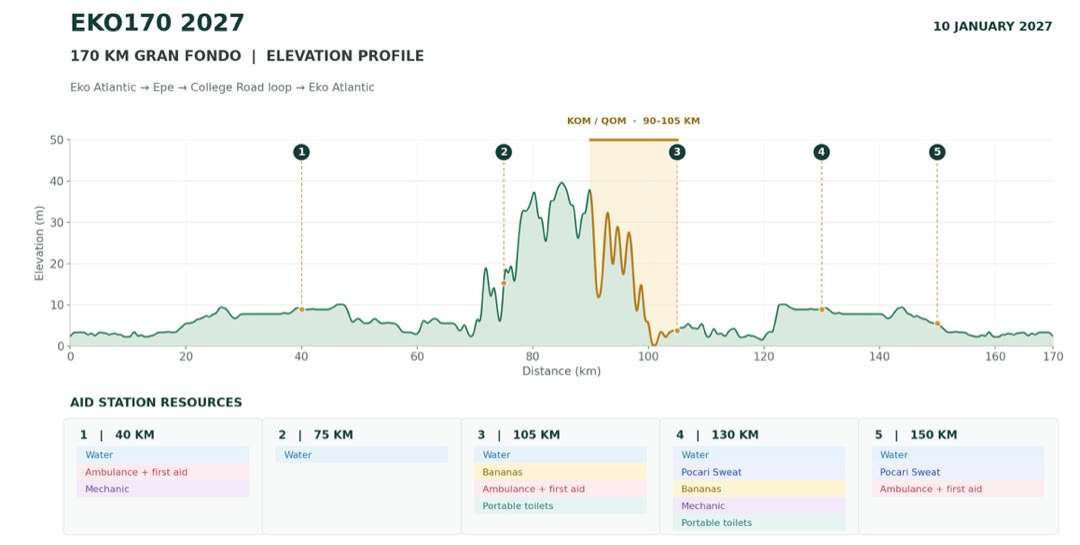
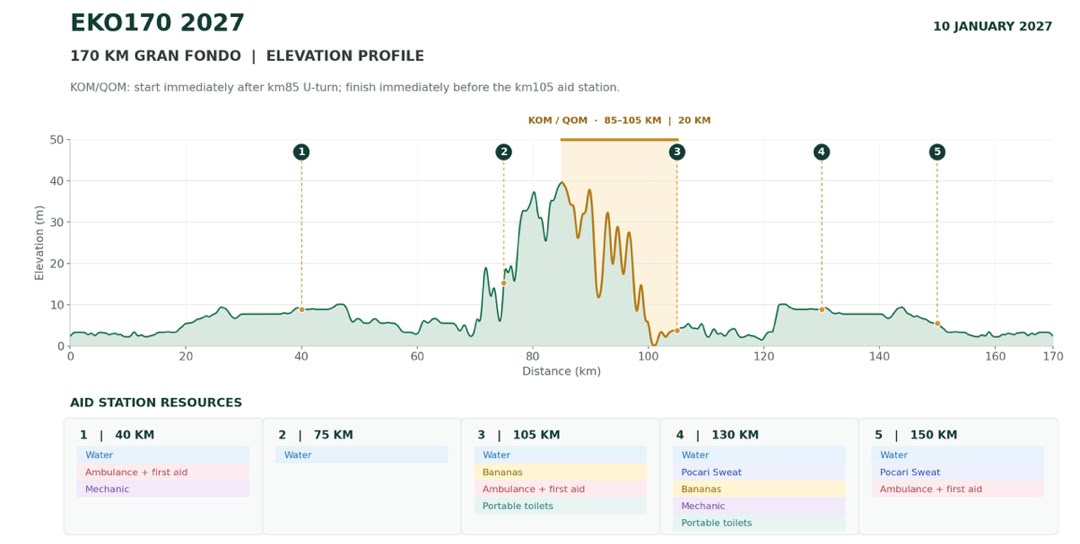
fix(routes): correct route-170 image dimensions
Client replaced eko170-170.jpeg and eko170-170-eprofile.jpeg with
new versions at different pixel dimensions. ROUTE_170_DETAIL still
recorded the old width/height, so the images rendered stretched on
/routes/170. Update the recorded dimensions to match the new files.

diff --git a/src/features/base/routes/constants.ts b/src/features/base/routes/constants.ts
@@ -336,13 +336,13 @@ export const ROUTE_170_DETAIL: RouteDetailData = {
     "The Eko Atlantic Boulevard Start Precinct welcomes riders for the 170 kilometres — waves roll out from 06:00, at first light.",
   operationalFlowImage: {
     src: "/images/eko170-170.jpeg",
-    width: 2000,
-    height: 1333,
+    width: 1280,
+    height: 550,
   },
   elevationProfileImage: {
     src: "/images/eko170-170-eprofile.jpeg",
-    width: 2560,
-    height: 1440,
+    width: 1080,
+    height: 544,
   },
   gpxDownload: GPX_DOWNLOADS[0],
 };

diff --git a/CHANGELOG.md b/CHANGELOG.md
@@ -7,6 +7,13 @@ and this project adheres to [Semantic Versioning](https://semver.org/spec/v2.0.0
 
 ## [Unreleased]
 
+### Fixed
+- `/routes/170`'s operational-flow and elevation-profile images are
+  updated to the client's latest versions, with `ROUTE_170_DETAIL`'s
+  recorded width/height corrected to match (was stretching the images
+  since the new files have different pixel dimensions than the old
+  ones).
+
 ## [1.0.0] - 2026-10-16
 
 ### Added
